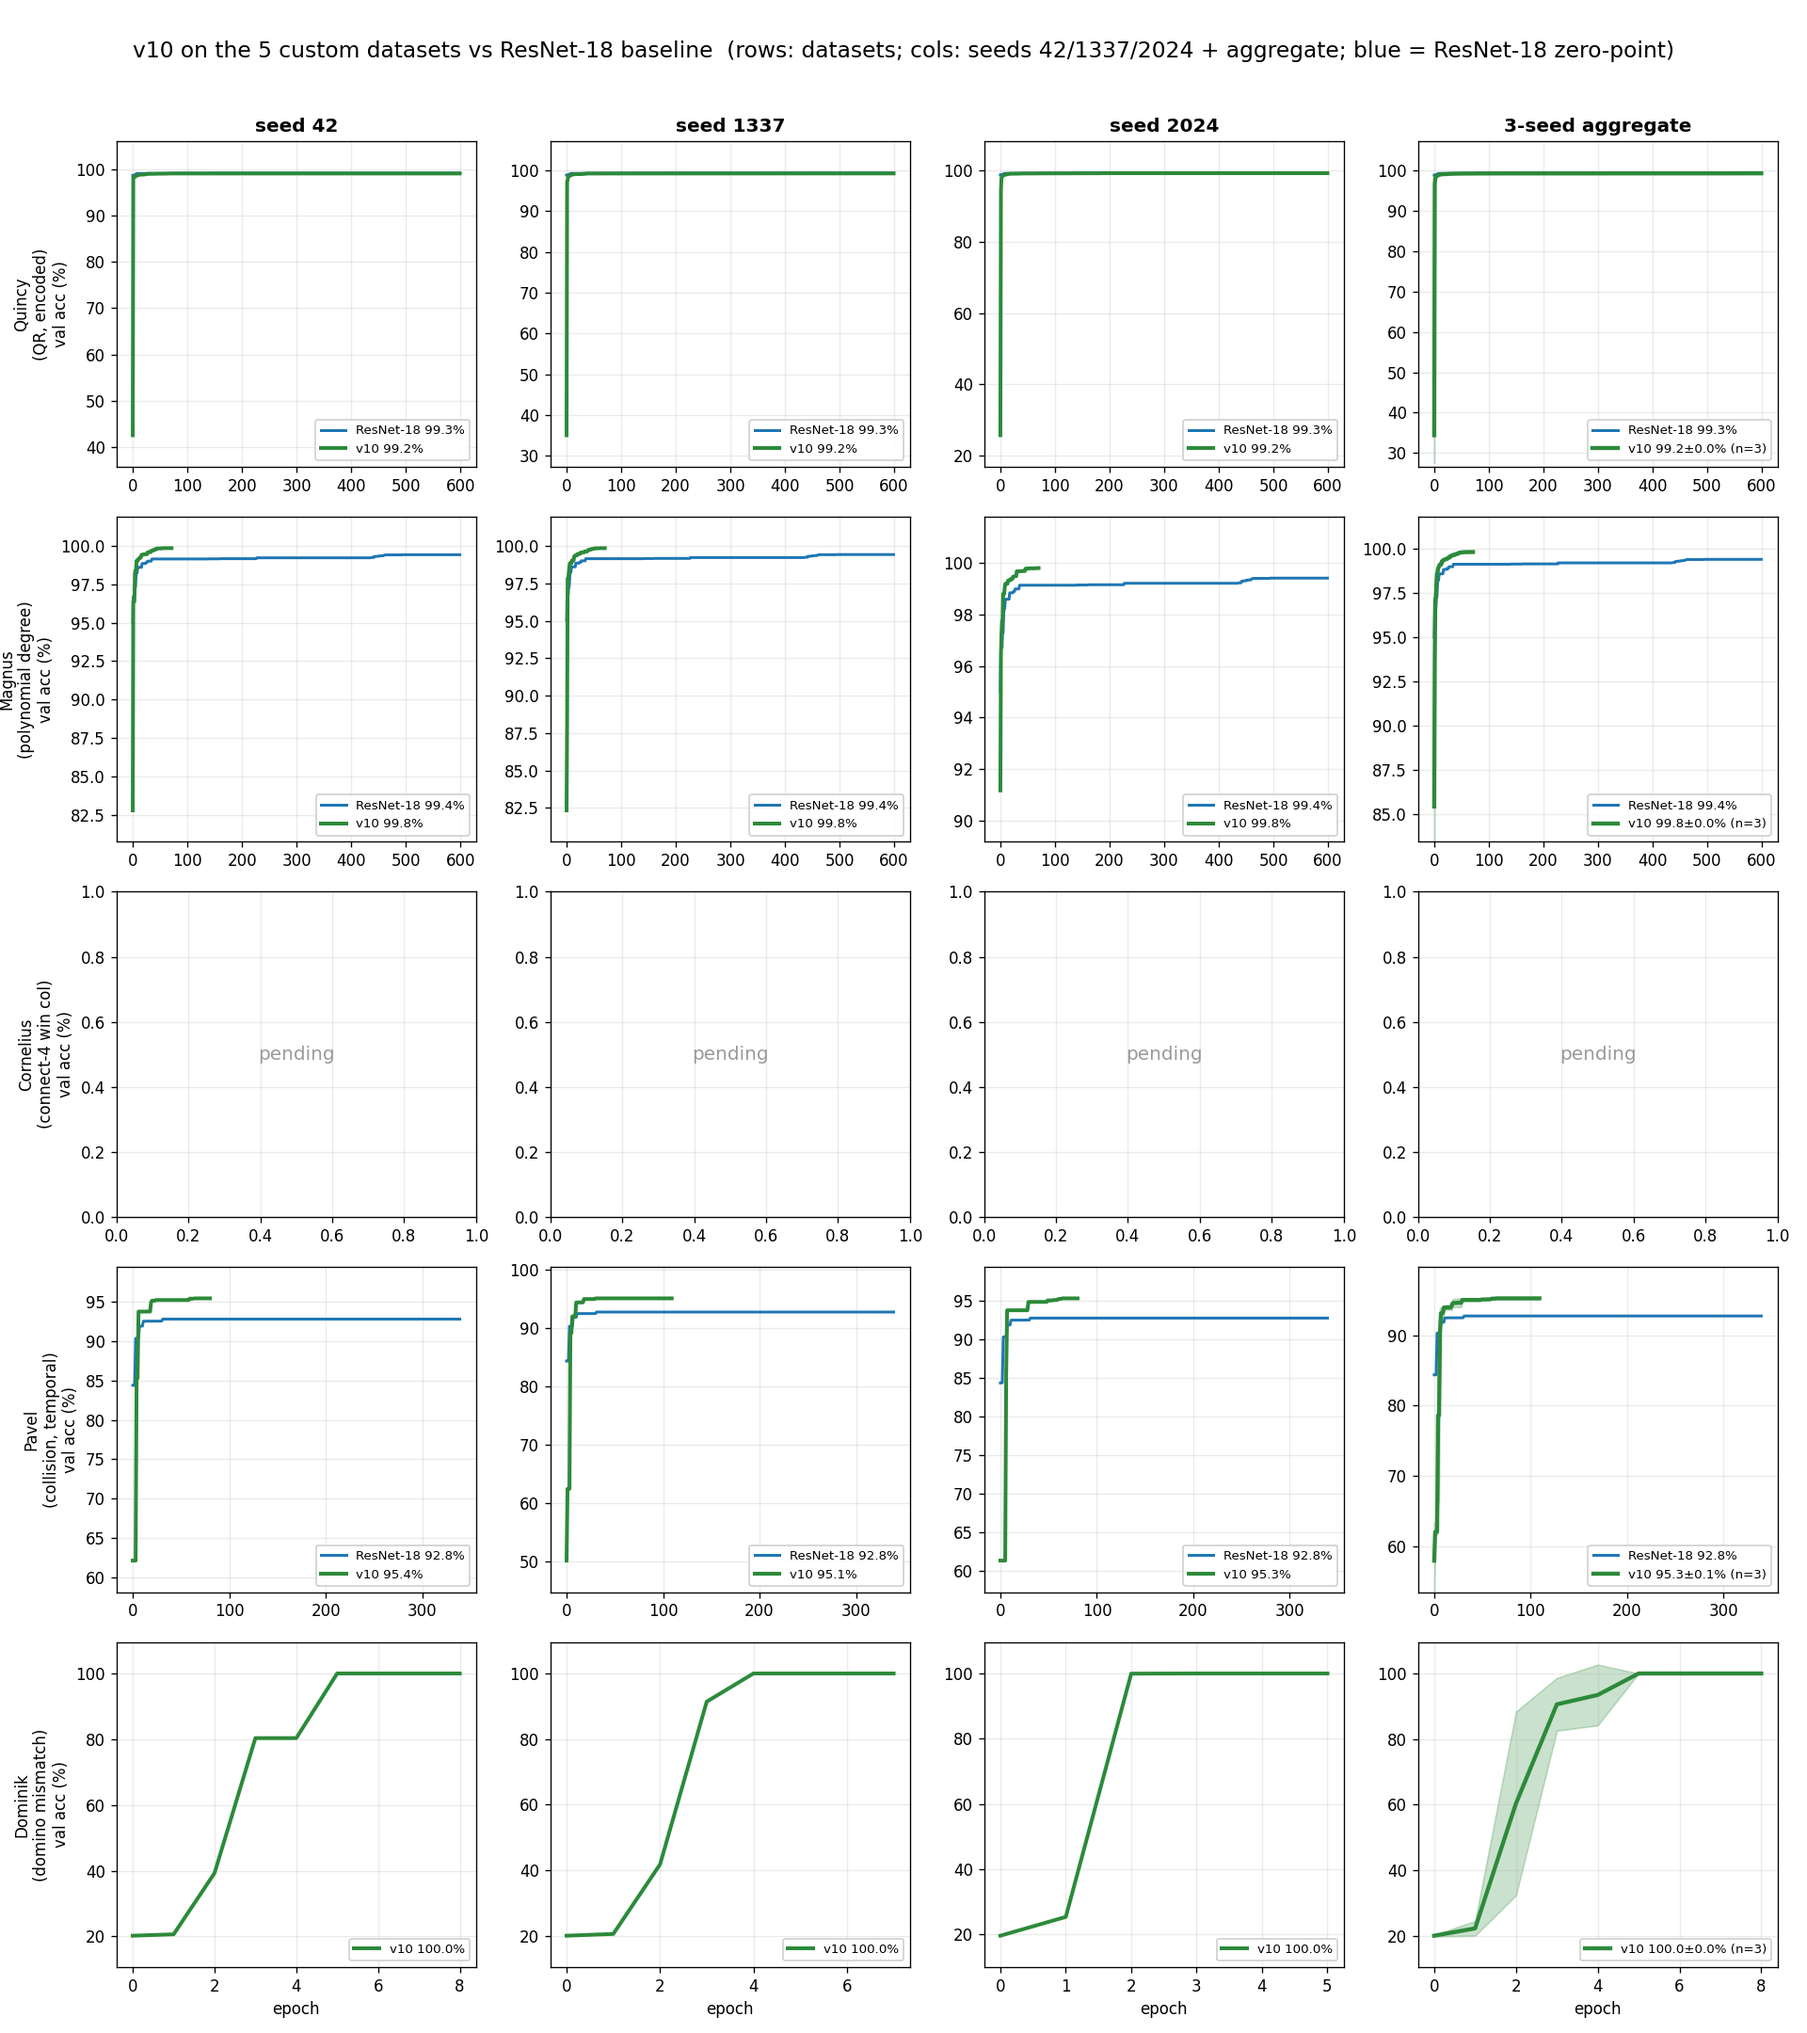
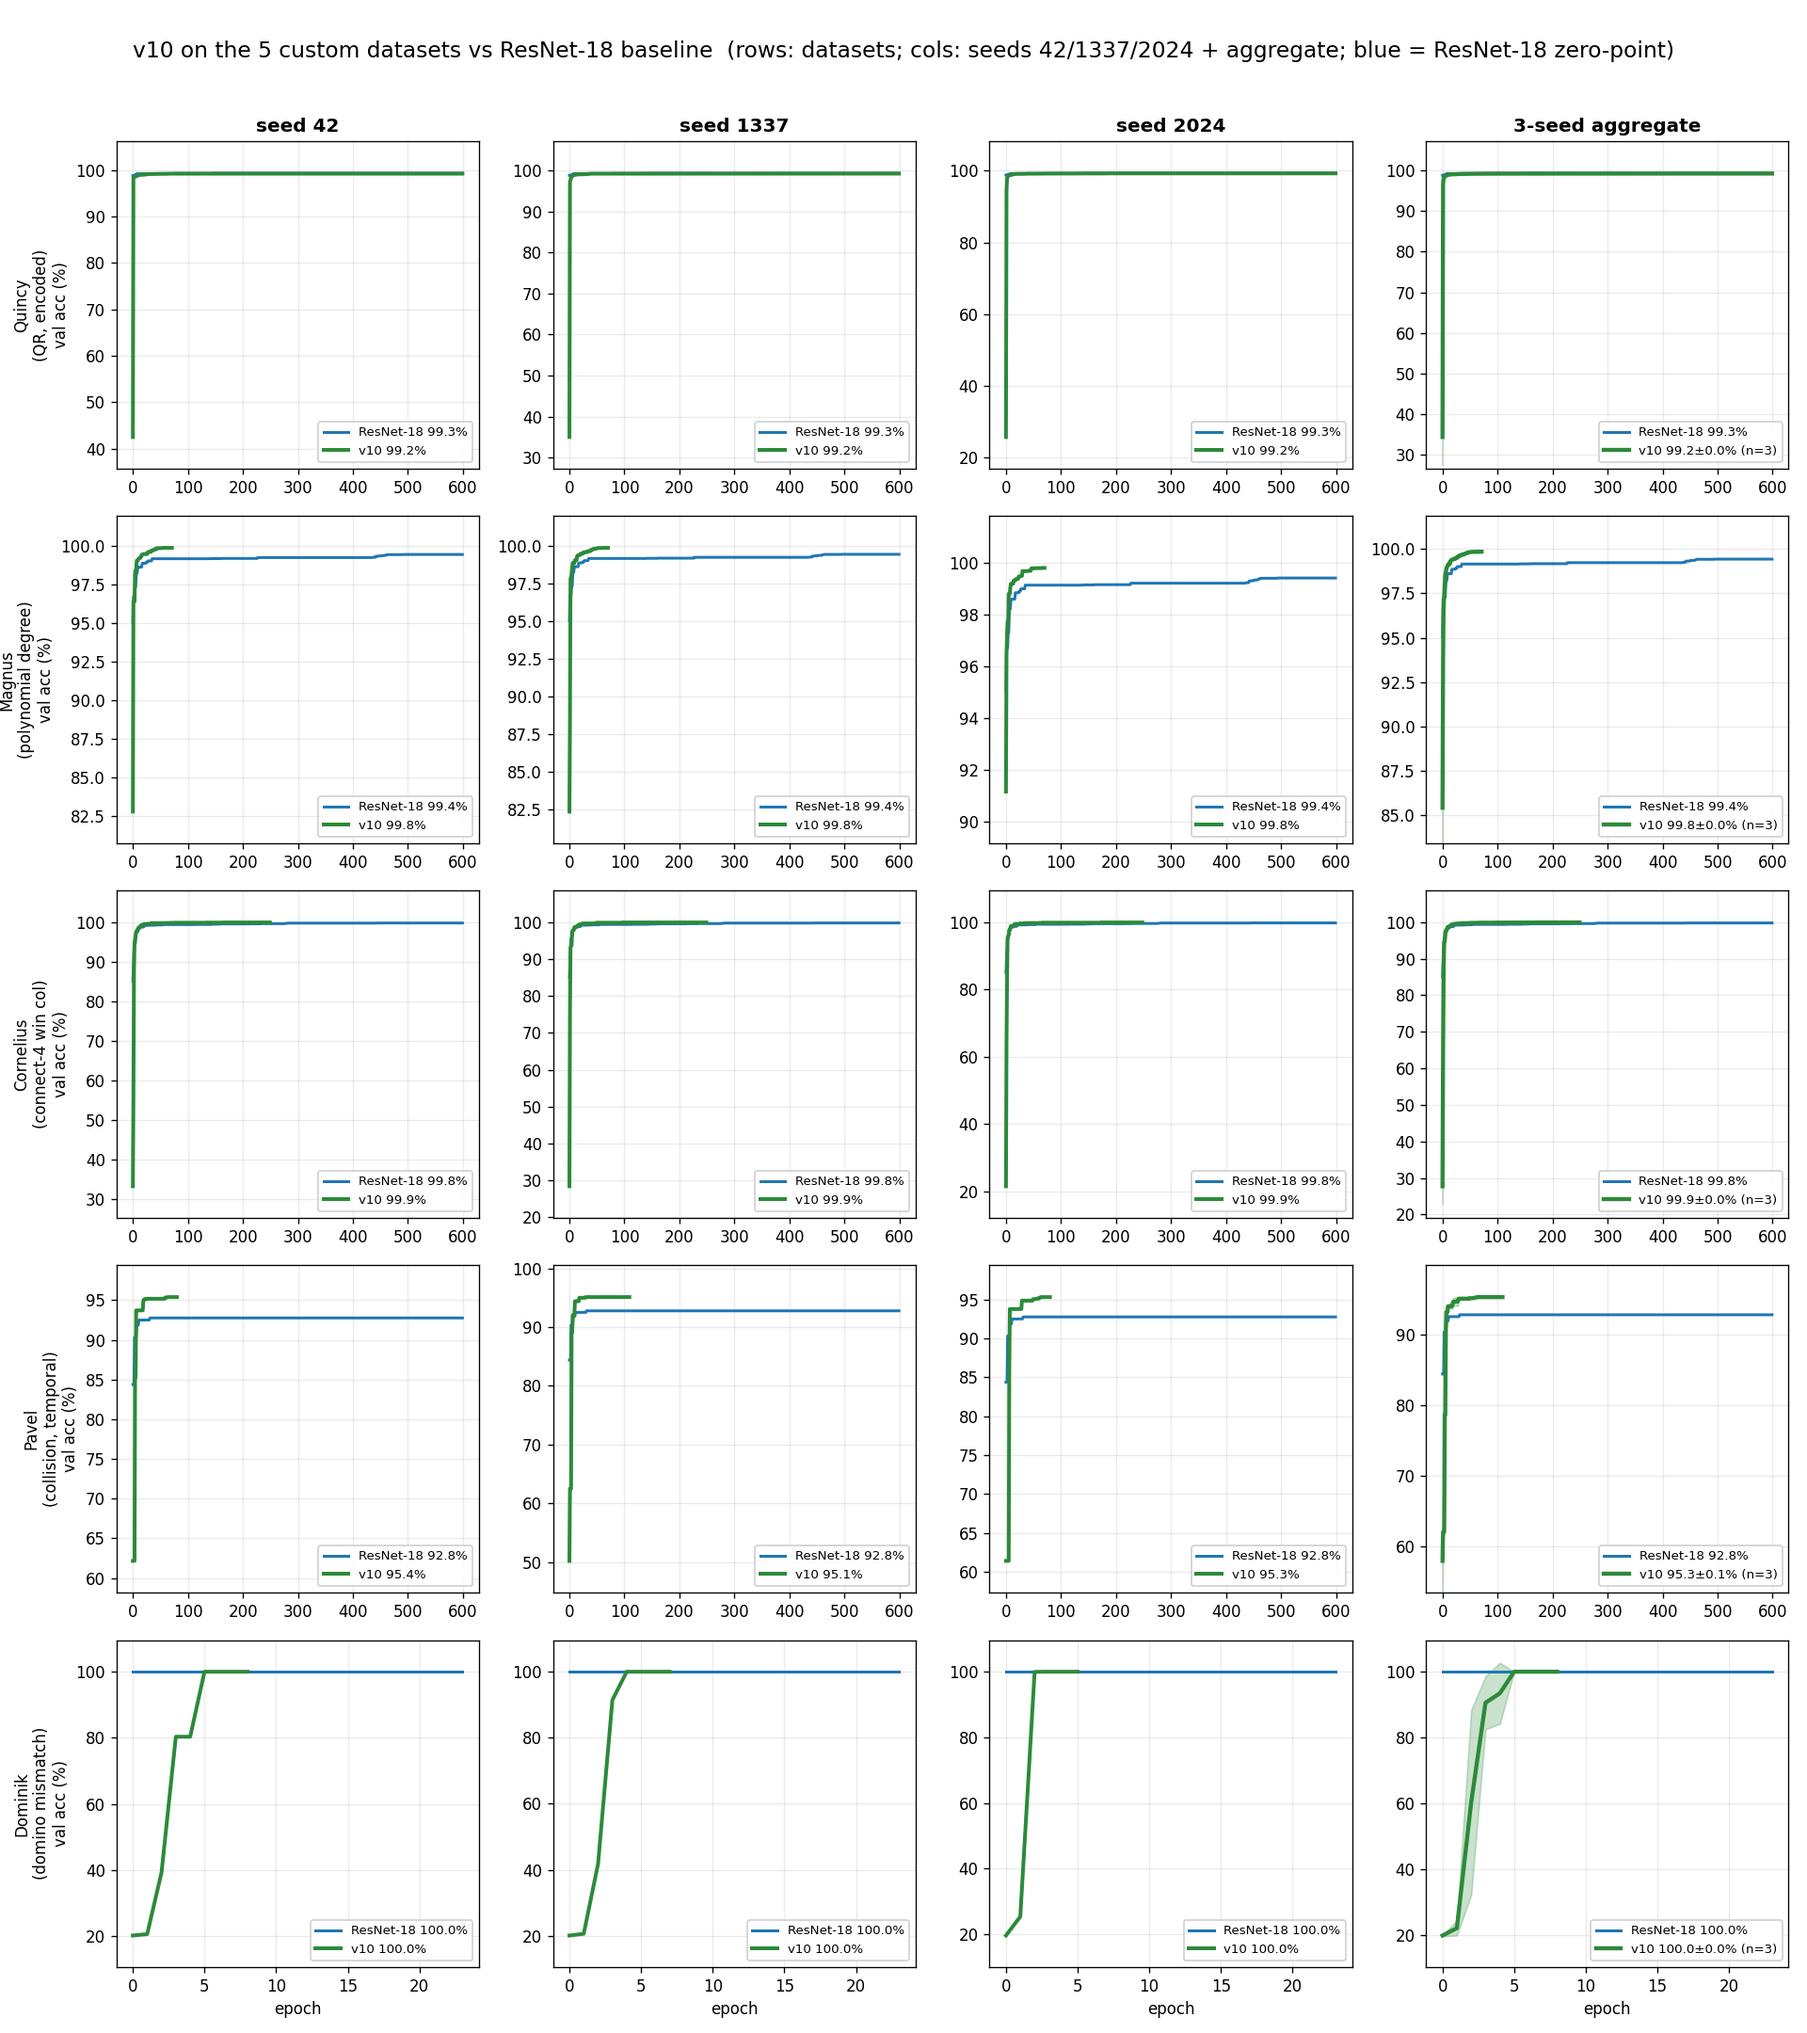
Custom datasets sweep complete (Cornelius caught up): fill 5x4 grid; epoch-axis on all aggregated curves; add score_newdata.py (test acc + adj vs ResNet zero-point)

diff --git a/dev/score_newdata.py b/dev/score_newdata.py
@@ -1,0 +1,40 @@
+#!/usr/bin/env python3
+"""Score the 5 custom datasets: v10 (3 seeds) and the ResNet-18 baseline,
+test accuracy + adjusted score using ResNet-18 as the zero-point (the custom
+datasets ship benchmark=0.0). Run on spark (needs predictions + test_y)."""
+import numpy as np
+from pathlib import Path
+from sklearn.metrics import accuracy_score
+
+DD = Path.home() / "local/nas-comp-datasets"
+REPO = Path.home() / "projects/HerriML-NAS-Unseen-Data-Challenge-2026"
+CODES = ["Quincy", "Magnus", "Cornelius", "Pavel", "Dominik"]
+SEEDS = ["42", "1337", "2024"]
+
+
+def raw(pred_dir, code):
+    pf = REPO / pred_dir / f"{code}.npy"
+    if not pf.exists():
+        return None
+    ty = np.load(DD / code / "test_y.npy")
+    pr = np.load(pf)
+    return 100 * accuracy_score(ty[:len(pr)], pr)
+
+
+hdr = f"{'dataset':10s} {'resnet':>7s} {'v10_42':>7s} {'v10_1337':>8s} {'v10_2024':>8s} {'v10mean':>8s}  adj(resnet zero-point)"
+print(hdr)
+tot = [0.0, 0.0, 0.0]
+for c in CODES:
+    rn = raw("dev/predictions-resnet18-newdata-s42", c)
+    vs = [raw(f"dev/predictions-v10nd-v10_s{s}", c) for s in SEEDS]
+    vm = np.mean([v for v in vs if v is not None]) if any(v is not None for v in vs) else float("nan")
+    adj = [((v - rn) * 10 / max(100 - rn, 1e-6)) if (v is not None and rn is not None) else None for v in vs]
+    for i, a in enumerate(adj):
+        if a is not None:
+            tot[i] += a
+    astr = "  ".join(f"{a:+.2f}" if a is not None else "  -  " for a in adj)
+    rns = f"{rn:7.2f}" if rn is not None else "   -   "
+    vss = "  ".join(f"{v:7.2f}" if v is not None else "   -   " for v in vs)
+    print(f"{c:10s} {rns} {vss} {vm:8.2f}  {astr}")
+print(f"\ntotal adj per seed (resnet zero-point): {[round(t,2) for t in tot]}")
+print(f"mean total: {np.mean(tot):+.2f} ± {np.std(tot):.2f}")
